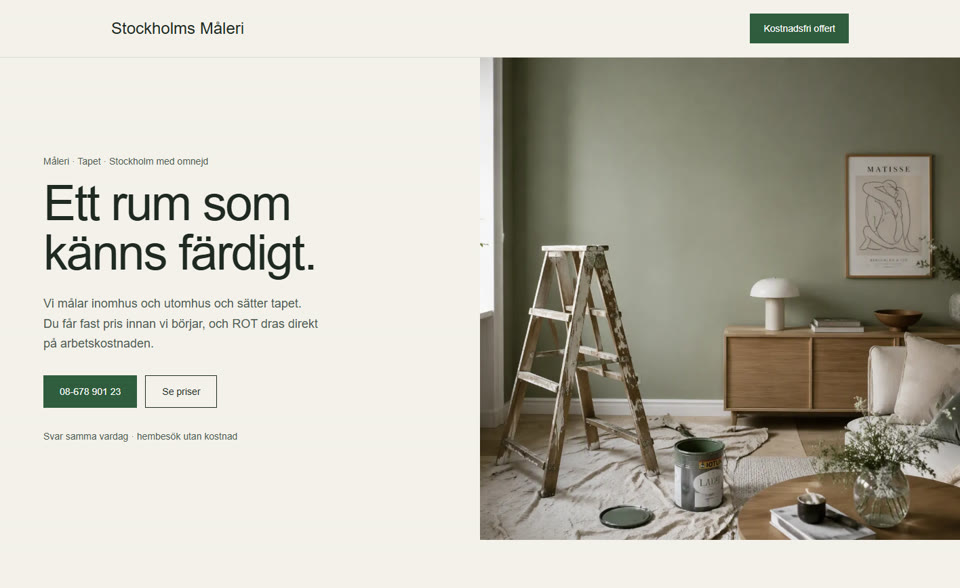
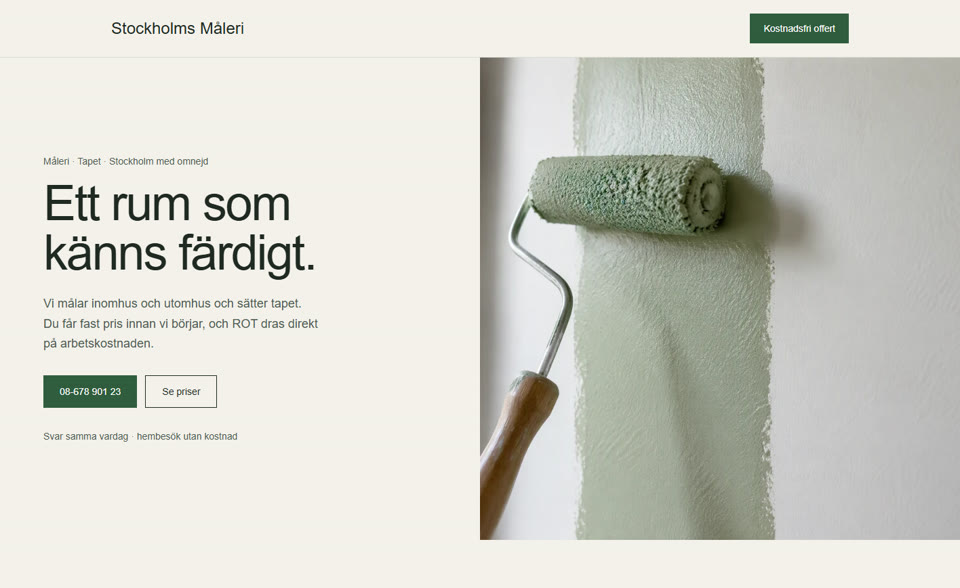
Byt målarbild till nymålad vägg med roller - enklare motiv som ser äkta ut

diff --git a/src/routes/malare.tsx b/src/routes/malare.tsx
@@ -78,8 +78,8 @@ function PainterDemo() {
         </div>
         <div className="relative min-h-[56vh] md:min-h-[82vh]">
           <Pic
-            src="/images/malare.jpg?v=6"
-            alt="Nymålat vardagsrum i salviagrönt"
+            src="/images/malare.jpg?v=7"
+            alt="Roller som målar en vägg i salviagrönt"
             className="absolute inset-0 size-full object-cover"
             width={1600}
             height={1200}
@@ -91,7 +91,7 @@ function PainterDemo() {
       <section className="mx-auto max-w-6xl px-5 py-20 md:px-8">
         <h2 className="font-display text-4xl">Färger vi ofta återkommer till</h2>
         <p className="mt-3 max-w-xl text-[#4d5b52]">
-          Rummet på bilden är målat i Salvia. Vi hjälper dig provmåla innan du bestämmer dig.
+          Väggen i bilden målas i Salvia. Vi hjälper dig provmåla innan du bestämmer dig.
         </p>
         <div className="mt-12 grid grid-cols-2 gap-3 md:grid-cols-4">
           {colors.map((c) => (
